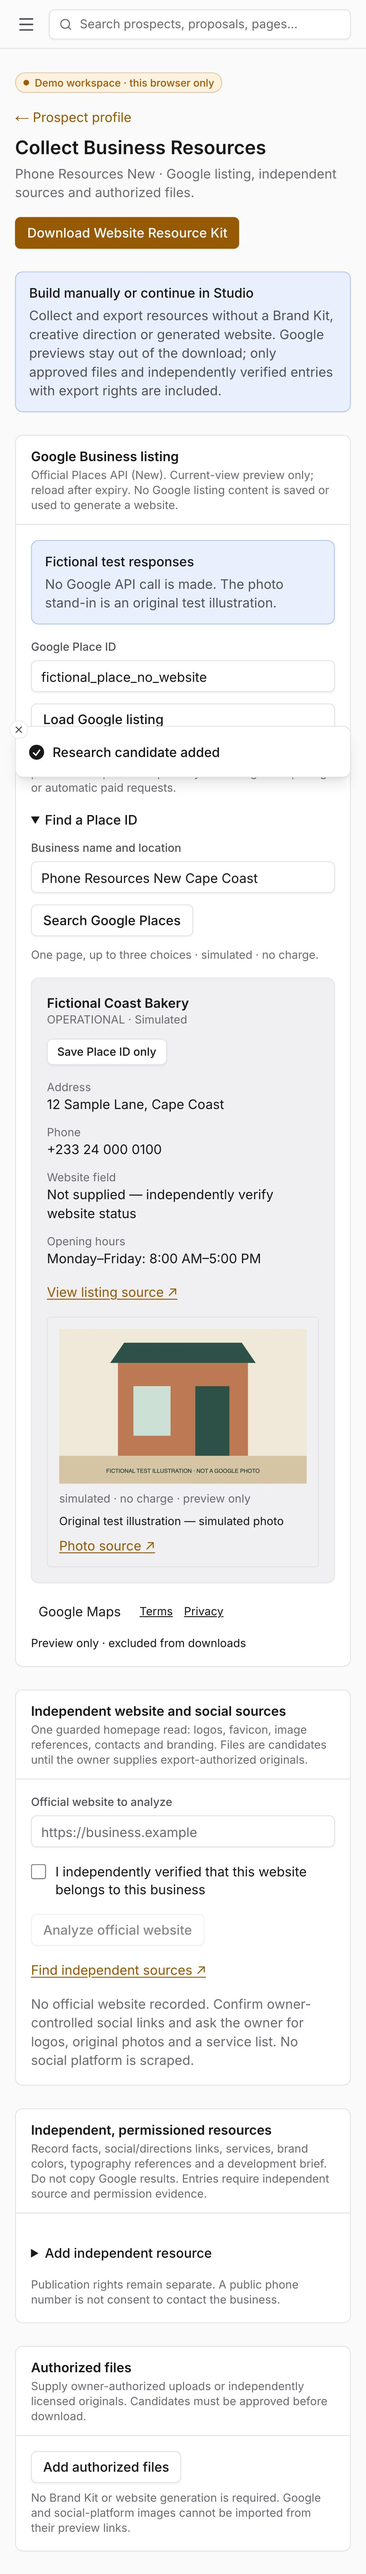
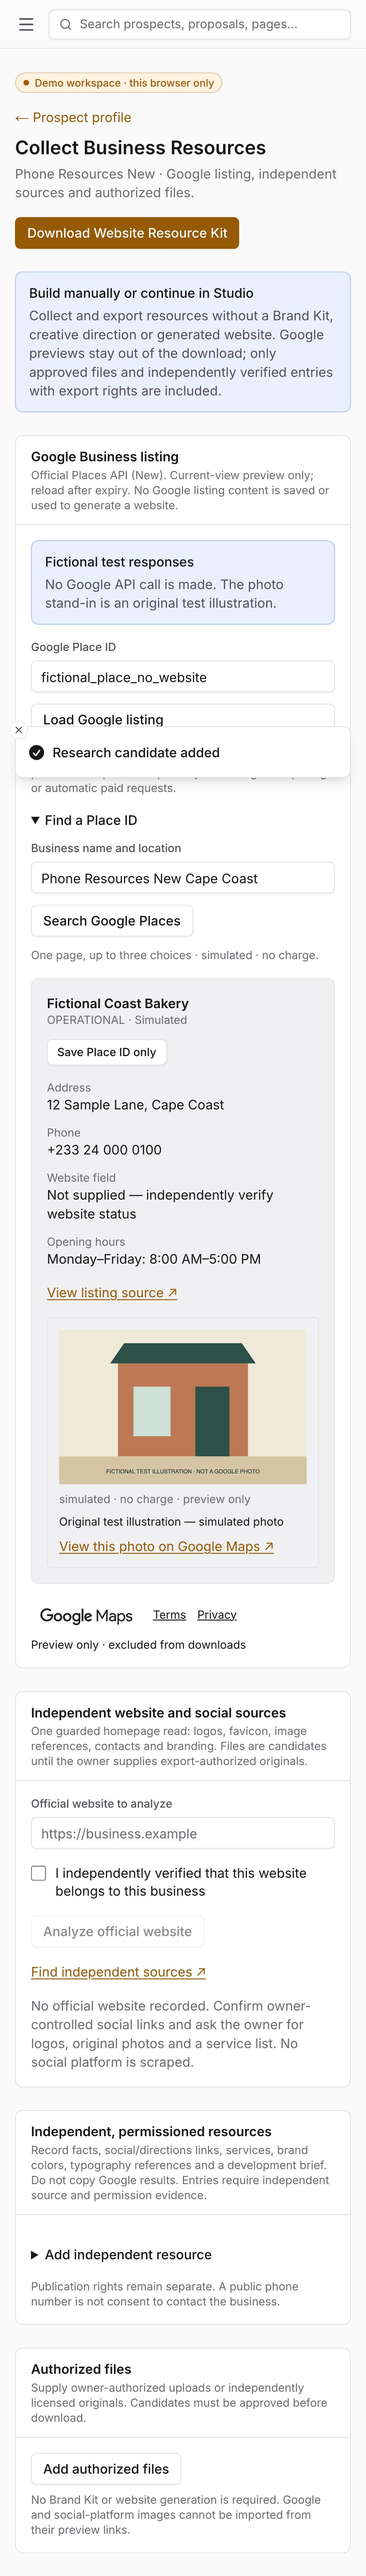
Close the collector's attribution and denylist gaps
- Refuse business.site, the retired Google Business Profile website host, in both
  the application guard and the migration 016 check constraint. Regression tests
  cover the rejected host and a lookalike domain that must stay allowed.
- Show Google's required branding with Places content: the official, unmodified
  Google Maps logo from Google's attribution asset pack, at 18px with the
  documented clear space and an accessible "Google Maps" label. Each photo now
  carries its author's avatar, name and profile link plus a direct "View this
  photo on Google Maps" link from the photo's googleMapsUri.
- Extend supabase/checks/preflight.sql with markers for 001-016 and a report on
  whether the Supabase CLI history table exists, and after-migrations.sql with
  rows 24-33 for the optional 011-016 migrations. Both stay read only; nothing
  is applied.
- Re-record migration 016's readiness findings: the denylist gap is closed, and
  the production state is a written record (001-008 applied through the SQL
  editor) rather than CLI history, leaving 009-016 unrecorded until preflight
  output says otherwise.
- Keep the single live Google run unexecuted: its expected output now also checks
  the per-photo Google Maps link and author links, and the procedure checks the
  logo on screen. No paid request, production write, push or deployment.

diff --git a/src/components/resources/resource-collector.tsx b/src/components/resources/resource-collector.tsx
@@ -58,8 +58,15 @@ function Workspace({ business }: { business: Business }) {
   </div>;
 }
 
+/**
+ * Google's required attribution when Places content is displayed without a Google map. The asset is
+ * Google's official, unmodified Google Maps logo from Google_Maps_Attribution_Assets.zip
+ * (developers.google.com/maps/documentation/places/web-service/policies): the non-outlined variant
+ * for a plain background, 18px high (16-19dp allowed), clear space 10dp at the sides and top and
+ * 5dp below, with an accessible label reading "Google Maps".
+ */
 function GoogleAttribution() {
-  return <div className="mt-4 flex flex-wrap items-center gap-3 text-xs"><span translate="no" className="whitespace-nowrap rounded bg-white px-2 py-1 text-sm font-normal text-[#1f1f1f]">Google Maps</span><Link href="/terms" className="underline">Terms</Link><Link href="/privacy" className="underline">Privacy</Link><span>Preview only · excluded from downloads</span></div>;
+  return <div className="mt-4 flex flex-wrap items-center gap-x-3 gap-y-2 text-xs"><span className="inline-flex items-center rounded bg-white pb-[5px] pl-[10px] pr-[10px] pt-[10px]"><img src="/brand/google-maps-attribution.svg" alt="Google Maps" width={98} height={18} className="h-[18px] w-auto" /></span><Link href="/terms" className="underline">Terms</Link><Link href="/privacy" className="underline">Privacy</Link><span>Preview only · excluded from downloads</span></div>;
 }
 function GoogleViewer({ business, entries, website, editable }: { business: Business; entries: ResourceEntry[]; website: WebsiteResources | null; editable: boolean }) {
   const generation = useRef(0);
@@ -102,7 +109,7 @@ function GoogleViewer({ business, entries, website, editable }: { business: Busi
       <div className="flex flex-wrap items-start justify-between gap-3"><div><h3 className="font-semibold">{listing.name}</h3><p className="text-xs text-subtle">{listing.status} {listing.simulated ? '· Simulated' : ''}</p></div><Button size="sm" disabled={!editable || saveId.pending || placeId !== listing.id} onClick={() => void saveId.run()}>Save Place ID only</Button></div>
       <dl className="grid gap-3 text-sm sm:grid-cols-2"><div><dt className="text-xs text-subtle">Address</dt><dd>{listing.address ?? 'Not supplied'}</dd></div><div><dt className="text-xs text-subtle">Phone</dt><dd>{listing.phone ?? 'Not supplied'}</dd></div><div><dt className="text-xs text-subtle">Website field</dt><dd>{listing.website ? <SourceLink url={listing.website}>{listing.website}</SourceLink> : 'Not supplied — independently verify website status'}</dd></div><div><dt className="text-xs text-subtle">Opening hours</dt><dd>{listing.hours.length ? listing.hours.map((v) => <p key={v}>{v}</p>) : 'Not supplied'}</dd></div></dl>
       <div className="flex flex-wrap gap-4 text-sm"><SourceLink url={listing.mapsUri}>View listing source</SourceLink>{listing.directionsUri && <SourceLink url={listing.directionsUri}>Directions at Google Maps</SourceLink>}</div>
-      <div className="grid gap-4 sm:grid-cols-2 lg:grid-cols-3">{listing.photos.map((p, i) => <div key={p.name} className="min-w-0 space-y-2 rounded border border-border p-3">{photos[p.name] ? <img src={photos[p.name]} alt={`Business photo preview ${i + 1}`} width={800} height={500} className="aspect-[8/5] w-full object-contain" referrerPolicy="no-referrer" onError={() => setError('Photo expired or unavailable. Reload the listing for a fresh reference.')} /> : <Button disabled={Boolean(pending)} onClick={() => void run('photo', p.name)}>Preview photo {i + 1}</Button>}<p className="text-xs text-subtle">{cost(status?.photoMaxUsd)} · preview only</p>{p.authors.map((a, j) => <p key={j} className="text-xs"><SourceLink url={a.uri}>{a.name}</SourceLink></p>)}<SourceLink url={listing.mapsUri}>Photo source</SourceLink></div>)}</div>
+      <div className="grid gap-4 sm:grid-cols-2 lg:grid-cols-3">{listing.photos.map((p, i) => <div key={p.name} className="min-w-0 space-y-2 rounded border border-border p-3">{photos[p.name] ? <img src={photos[p.name]} alt={`Business photo preview ${i + 1}`} width={800} height={500} className="aspect-[8/5] w-full object-contain" referrerPolicy="no-referrer" onError={() => setError('Photo expired or unavailable. Reload the listing for a fresh reference.')} /> : <Button disabled={Boolean(pending)} onClick={() => void run('photo', p.name)}>Preview photo {i + 1}</Button>}<p className="text-xs text-subtle">{cost(status?.photoMaxUsd)} · preview only</p>{p.authors.map((a, j) => <p key={j} className="flex items-center gap-2 text-xs">{a.photoUri && <img src={a.photoUri} alt="" width={24} height={24} className="size-6 shrink-0 rounded-full object-cover" referrerPolicy="no-referrer" />}<SourceLink url={a.uri}>{a.name}</SourceLink></p>)}<SourceLink url={p.googleMapsUri ?? listing.mapsUri}>View this photo on Google Maps</SourceLink></div>)}</div>
       {!listing.photos.length && <p className="text-sm text-subtle">No supported photos returned.</p>}
       {listing.attributions.map((v, i) => <p key={i} className="text-xs"><SourceLink url={v.uri}>{v.provider}</SourceLink></p>)}
       {resourceConflicts(listing, entries, website).map((v) => <Notice key={v} title="Conflicting details" tone="warning">{v}</Notice>)}

diff --git a/tests/unit/business-resources.test.ts b/tests/unit/business-resources.test.ts
@@ -14,9 +14,14 @@ import { extractPageFacts } from '@/lib/domain/page-signals';
 const entry = { businessId: '00000000-0000-4000-8000-000000000001', category: 'service' as const, label: 'Services', value: 'Original owner-authorized service description', sourceKind: 'business_owner' as const, sourceUrl: 'https://sample.example.org/permission', evidence: 'Owner email dated 25 October permits independent verification, storage and export.', independentlyVerified: true as const, exportPermission: 'granted' as const };
 afterEach(() => { vi.unstubAllGlobals(); vi.unstubAllEnvs(); });
 describe('Independent resources and permitted downloads', () => {
-  it.each(['https://maps.google.com/place/test', 'https://lh3.googleusercontent.com/image', 'https://maps.app.goo.gl/test', 'https://instagram.com/business', 'javascript:alert(1)', 'https://user:password@official.example.org'])('refuses restricted or unsafe independent source %s', (url) => {
+  it.each(['https://maps.google.com/place/test', 'https://lh3.googleusercontent.com/image', 'https://maps.app.goo.gl/test', 'https://fictionalbakery.business.site/', 'https://instagram.com/business', 'javascript:alert(1)', 'https://user:password@official.example.org'])('refuses restricted or unsafe independent source %s', (url) => {
     expect(restrictedResourceUrl(url)).toBe(true);
     expect(resourceEntrySchema.safeParse({ ...entry, sourceUrl: url }).success).toBe(false);
+  });
+  it('does not over-block hosts that merely contain the retired Google Business Profile host', () => {
+    expect(restrictedResourceUrl('https://notmybusiness.site/permission')).toBe(false);
+    expect(restrictedResourceUrl('https://business.site.example.org/permission')).toBe(false);
+    expect(restrictedResourceUrl('https://samplebakery.example.org/permission')).toBe(false);
   });
   it('requires independent verification, permission evidence and a non-Google source type', () => {
     expect(resourceEntrySchema.safeParse({ ...entry, sourceKind: 'google' }).success).toBe(false);
@@ -93,13 +98,16 @@ describe('Official transient Google resource provider', () => {
     vi.stubEnv('GOOGLE_PLACES_API_KEY', 'FAKE_SERVER_KEY');
     const fetch = vi.fn().mockResolvedValue(new Response(JSON.stringify({ id: 'fictional_place_12345', displayName: { text: 'Test Bakery' }, websiteUri: withSite ? 'https://sample.example.org' : undefined,
       regularOpeningHours: { weekdayDescriptions: ['Monday: 8–5'] }, googleMapsUri: 'https://maps.google.com/test',
-      photos: Array.from({ length: 9 }, (_, i) => ({ name: `places/fictional_place_12345/photos/photo${i}`, authorAttributions: [{ displayName: 'Sample photographer', uri: 'https://maps.google.com/contrib/test' }] })), attributions: [{ provider: 'Provider credit', providerUri: 'https://example.org' }] })));
+      photos: Array.from({ length: 9 }, (_, i) => ({ name: `places/fictional_place_12345/photos/photo${i}`, widthPx: 800, heightPx: 600, googleMapsUri: 'https://maps.google.com/photos/test', authorAttributions: [{ displayName: 'Sample photographer', uri: 'https://maps.google.com/contrib/test', photoUri: 'https://lh3.googleusercontent.com/a/sample' }] })), attributions: [{ provider: 'Provider credit', providerUri: 'https://example.org' }] })));
     vi.stubGlobal('fetch', fetch);
     const listing = await googleResourceDetails('fictional_place_12345');
     expect(listing.website).toBe(withSite ? 'https://sample.example.org/' : null);
     expect(simulatedResourceListing(withSite ? 'fictional_place_with_website' : 'fictional_place_no_website').website).toBe(withSite ? 'https://resource-bakery.example.org' : null);
     expect(listing.photos).toHaveLength(6);
     expect(listing.photos[0].authors[0].name).toBe('Sample photographer');
+    // Google requires the author's avatar, name and profile link plus a direct photo link on Google Maps.
+    expect(listing.photos[0].authors[0]).toEqual({ name: 'Sample photographer', uri: 'https://maps.google.com/contrib/test', photoUri: 'https://lh3.googleusercontent.com/a/sample' });
+    expect(listing.photos[0].googleMapsUri).toBe('https://maps.google.com/photos/test');
     expect(listing.attributions[0].provider).toBe('Provider credit');
     const [url, init] = fetch.mock.calls[0];
     expect(url).not.toContain('FAKE_SERVER_KEY');

diff --git a/src/lib/domain/business-resources.ts b/src/lib/domain/business-resources.ts
@@ -6,13 +6,17 @@ import { phoneKey } from './web-research';
 export const RESOURCE_CATEGORIES = ['identity', 'contact', 'location', 'social', 'product', 'service', 'color', 'typography', 'brief'] as const;
 export type ResourceCategory = typeof RESOURCE_CATEGORIES[number];
 
-/** Google and social-platform content cannot become independent source material. */
+/**
+ * Google and social-platform content cannot become independent source material. `business.site` is
+ * the retired Google Business Profile website host: a page there can look like an independent site
+ * while remaining Google-supplied content, so it is refused with the other Google hosts.
+ */
 export function restrictedResourceUrl(raw: string): boolean {
   try {
     const u = new URL(raw);
     const h = u.hostname.toLowerCase();
     return !['https:', 'http:'].includes(u.protocol) || Boolean(u.username || u.password) ||
-      /(^|\.)(google\.[a-z.]+|googleapis\.com|googleusercontent\.com|gstatic\.com|goo\.gl|maps\.app\.goo\.gl|ggpht\.com|facebook\.com|fbcdn\.net|instagram\.com|cdninstagram\.com|tiktok\.com|linkedin\.com|x\.com|twitter\.com)$/.test(h);
+      /(^|\.)(google\.[a-z.]+|googleapis\.com|googleusercontent\.com|gstatic\.com|goo\.gl|maps\.app\.goo\.gl|ggpht\.com|business\.site|facebook\.com|fbcdn\.net|instagram\.com|cdninstagram\.com|tiktok\.com|linkedin\.com|x\.com|twitter\.com)$/.test(h);
   } catch { return true; }
 }
 
@@ -36,7 +40,8 @@ export interface GoogleResourceListing {
   id: string; name: string; address: string | null; phone: string | null; website: string | null;
   mapsUri: string | null; directionsUri: string | null; hours: string[]; status: string | null;
   attributions: { provider: string; uri: string | null }[];
-  photos: { name: string; width: number; height: number; authors: { name: string; uri: string | null }[] }[];
+  /** `googleMapsUri` per photo is Google's required direct link to the source photo. */
+  photos: { name: string; width: number; height: number; googleMapsUri: string | null; authors: { name: string; uri: string | null; photoUri: string | null }[] }[];
   simulated: boolean;
 }
 export interface WebsiteResources {

diff --git a/src/lib/server/providers/google-places.ts b/src/lib/server/providers/google-places.ts
@@ -38,15 +38,17 @@ export async function googleResourceDetails(id: string): Promise<GoogleResourceL
   const p = await call(`https://places.googleapis.com/v1/places/${encodeURIComponent(id)}`, { headers: { 'X-Goog-Api-Key': serverEnv.placesKey(), 'X-Goog-FieldMask': RESOURCE_DETAIL_FIELDS } }, AbortSignal.timeout(10_000)) as PlaceJson & {
     regularOpeningHours?: { weekdayDescriptions?: string[] }; googleMapsLinks?: { directionsUri?: string };
     attributions?: { provider?: string; providerUri?: string }[];
-    photos?: { name?: string; widthPx?: number; heightPx?: number; authorAttributions?: { displayName?: string; uri?: string }[] }[];
+    photos?: { name?: string; widthPx?: number; heightPx?: number; googleMapsUri?: string; authorAttributions?: { displayName?: string; uri?: string; photoUri?: string }[] }[];
   };
   return { id: p.id ?? id, name: p.displayName?.text ?? 'Unnamed place', address: p.formattedAddress ?? null,
     phone: p.nationalPhoneNumber ?? null, website: httpLink(p.websiteUri), mapsUri: httpLink(p.googleMapsUri), directionsUri: httpLink(p.googleMapsLinks?.directionsUri),
     status: p.businessStatus ?? null, hours: p.regularOpeningHours?.weekdayDescriptions ?? [],
     attributions: (p.attributions ?? []).map((a) => ({ provider: a.provider ?? '', uri: httpLink(a.providerUri) })),
+    // Google requires the photo's author credit (avatar, name, profile link) and a direct link to the
+    // source photo on Google Maps; `name` is a display-only reference and is never stored.
     photos: (p.photos ?? []).slice(0, 6).filter((a) => a.name?.startsWith(`places/${id}/photos/`)).map((a) => ({
-      name: a.name!, width: a.widthPx ?? 0, height: a.heightPx ?? 0,
-      authors: (a.authorAttributions ?? []).map((v) => ({ name: v.displayName ?? 'Photo contributor', uri: httpLink(v.uri) })),
+      name: a.name!, width: a.widthPx ?? 0, height: a.heightPx ?? 0, googleMapsUri: httpLink(a.googleMapsUri),
+      authors: (a.authorAttributions ?? []).map((v) => ({ name: v.displayName ?? 'Photo contributor', uri: httpLink(v.uri), photoUri: httpLink(v.photoUri) })),
     })), simulated: false };
 }
 

diff --git a/tests/e2e/resource-collector.spec.ts b/tests/e2e/resource-collector.spec.ts
@@ -24,6 +24,11 @@ for (const withSite of [false, true]) test(`Google-first collection and authoriz
   await page.getByRole('button', { name: 'Load Google listing' }).click();
   expect((await response).headers()['cache-control']).toBe('no-store');
   const listing = page.getByTestId('google-listing');
+  // Google's required branding when Places content is shown without a map: the official logo, at
+  // real intrinsic size (a broken asset would render 0px), next to the content.
+  const mapsLogo = page.getByRole('img', { name: 'Google Maps' });
+  await expect(mapsLogo).toBeVisible();
+  await expect.poll(() => mapsLogo.evaluate((el) => (el as HTMLImageElement).naturalWidth)).toBeGreaterThan(0);
   await expect(listing.getByRole('heading', { name: 'Fictional Coast Bakery' })).toBeVisible();
   await expect(listing).toContainText('12 Sample Lane, Cape Coast');
   if (withSite) await expect(listing.getByRole('link', { name: 'https://resource-bakery.example.org' })).toBeVisible();
@@ -40,6 +45,8 @@ for (const withSite of [false, true]) test(`Google-first collection and authoriz
   await expect(img).toBeVisible();
   await expect.poll(() => img.evaluate((el) => (el as HTMLImageElement).naturalWidth)).toBe(1);
   await expect(listing).toContainText('Original test illustration — simulated photo');
+  // Each photo carries its author credit and the required direct link to the source photo.
+  await expect(listing.getByRole('link', { name: 'View this photo on Google Maps' })).toBeVisible();
   const local = await page.evaluate(() => JSON.stringify(localStorage));
   expect(local).toContain(withSite ? 'fictional_place_with_website' : 'fictional_place_no_website');
   expect(local).not.toContain('12 Sample Lane'); expect(local).not.toContain('fictional_sample'); expect(local).not.toContain('lh3.googleusercontent');

diff --git a/tests/live/resource-collector.live.test.ts b/tests/live/resource-collector.live.test.ts
@@ -50,10 +50,14 @@ describe.skipIf(!LIVE_ENABLED)('live Resource Collector (paid, opt-in)', () => {
       expect(photo.width).toBeGreaterThan(0);
       expect(photo.authors.length).toBeGreaterThan(0);
       expect(photo.authors.every((a) => a.name.trim().length > 0)).toBe(true);
+      // Google's policy requires direct access to the source photo on Google Maps from every photo.
+      expect(photo.googleMapsUri).toMatch(/^https:\/\/([^/]+\.)?google\.[a-z.]+\//);
+      expect(photo.authors.some((a) => a.uri || a.photoUri)).toBe(true);
     }
     firstPhoto = listing.photos[0]?.name ?? null;
+    const credits = listing.photos.flatMap((p) => p.authors);
     console.log(
-      `Place Details ${placeId}: photos ${listing.photos.length}, author credits ${listing.photos.reduce((n, p) => n + p.authors.length, 0)}, hours ${listing.hours.length}, provider credits ${listing.attributions.length}, website listed false, phone listed ${Boolean(listing.phone)}`,
+      `Place Details ${placeId}: photos ${listing.photos.length}, author credits ${credits.length}, author avatars ${credits.filter((a) => a.photoUri).length}, author profiles ${credits.filter((a) => a.uri).length}, photo source links ${listing.photos.filter((p) => p.googleMapsUri).length}, hours ${listing.hours.length}, provider credits ${listing.attributions.length}, website listed false, phone listed ${Boolean(listing.phone)}`,
     );
   });
 

diff --git a/tests/db/staging-acceptance.test.ts b/tests/db/staging-acceptance.test.ts
@@ -56,8 +56,10 @@ describe('staging acceptance for migrations 009 and 010', () => {
 
       // 6. Post-migration checks: every row must say ok.
       const after = await db.query<{ check: string; expected: string; actual: string; result: string }>(check('after-migrations.sql'));
-      expect(after.rows.length).toBeGreaterThanOrEqual(23);
-      expect(after.rows.filter((row) => row.result !== 'ok')).toEqual([]);
+      expect(after.rows.length).toBeGreaterThanOrEqual(33);
+      // This staging copy is current except for 009-011: 011 discovery is the one later migration the
+      // runbook still records as unapplied, so it is the only row that must report the gap.
+      expect(after.rows.filter((row) => row.result !== 'ok').map((row) => row.check)).toEqual(['011 discovery tables installed']);
       expect((await rows<{ n: number }>(db, 'select count(*)::int as n from public.ghana_districts'))[0].n).toBe(261);
 
       // 7–8. Create an active campaign and attach two prospects, one known only to district level.

diff --git a/tests/db/business-resources.test.ts b/tests/db/business-resources.test.ts
@@ -25,7 +25,11 @@ it('isolates independent resources by organization and enforces the business bin
 });
 it('refuses Google-origin source types and URLs at the database boundary', async () => {
   await expect(as(db, OWNER, () => insert(org, 'https://maps.google.com/place/example'))).rejects.toThrow(/check constraint/i);
+  // The retired Google Business Profile host is Google content even when it looks like a website.
+  await expect(as(db, OWNER, () => insert(org, 'https://fictionalbakery.business.site/'))).rejects.toThrow(/check constraint/i);
   await expect(as(db, OWNER, () => insert(org, 'https://sample.example.org', 'google'))).rejects.toThrow(/check constraint/i);
+  // Only the host itself is refused, not a longer domain that happens to contain its name.
+  await as(db, OWNER, () => insert(org, 'https://notmybusiness.site/permission'));
 });
 it('allows a member to read but a viewer cannot create or revoke resource entries', async () => {
   const [entry] = await as(db, OWNER, () => insert());

diff --git a/src/lib/server/resource-collector.ts b/src/lib/server/resource-collector.ts
@@ -19,7 +19,7 @@ export function simulatedResourceListing(id: string): GoogleResourceListing {
   return { id, name: 'Fictional Coast Bakery', address: '12 Sample Lane, Cape Coast', phone: '+233 24 000 0100',
     website: id.endsWith('with_website') ? 'https://resource-bakery.example.org' : null,
     mapsUri: 'https://www.google.com/maps', directionsUri: null, hours: ['Monday–Friday: 8:00 AM–5:00 PM'], status: 'OPERATIONAL',
-    photos: [{ name: `places/${id}/photos/fictional_sample`, width: 800, height: 500, authors: [{ name: 'Original test illustration — simulated photo', uri: null }] }],
+    photos: [{ name: `places/${id}/photos/fictional_sample`, width: 800, height: 500, googleMapsUri: 'https://www.google.com/maps', authors: [{ name: 'Original test illustration — simulated photo', uri: null, photoUri: null }] }],
     attributions: [], simulated: true };
 }
 

diff --git a/tests/db/migrations.test.ts b/tests/db/migrations.test.ts
@@ -228,7 +228,7 @@ describe('after-migrations check', () => {
     try {
       expect(await db.exec(check)).toHaveLength(1);
       const ok = await results(db);
-      expect(ok).toHaveLength(23);
+      expect(ok).toHaveLength(33);
       expect(ok.filter((r) => r.result !== 'ok')).toEqual([]);
     } finally {
       await db.exec('rollback');

diff --git a/docs/LIVE_GOOGLE_RESOURCE_TEST.md b/docs/LIVE_GOOGLE_RESOURCE_TEST.md
@@ -68,10 +68,13 @@ Add `LIVE_PLACES_PHOTO=1` to spend one photo request as well; the check reuses t
 details call, so it never pays for a second lookup.
 
 Expected: both checks pass and print counts only, for example
-`Place Details ChIJ...: photos 3, author credits 3, hours 7, provider credits 0, website listed false,
-phone listed true`. A failing `website listed false` assertion means Google now lists a website for
-that business: pick another prospect, do not loosen the check. The photo check prints only the host
-(`*.googleusercontent.com`, `*.ggpht.com` or `*.gstatic.com`) and confirms no bytes were fetched.
+`Place Details ChIJ...: photos 3, author credits 3, author avatars 3, author profiles 3, photo source
+links 3, hours 7, provider credits 0, website listed false, phone listed true`. A failing
+`website listed false` assertion means Google now lists a website for that business: pick another
+prospect, do not loosen the check. Every returned photo must carry a Google Maps link to the source
+photo (`googleMapsUri`) and at least one author link or avatar; a failure there is an attribution
+defect in the provider mapping, not a reason to relax the assertion. The photo check prints only the
+host (`*.googleusercontent.com`, `*.ggpht.com` or `*.gstatic.com`) and confirms no bytes were fetched.
 
 ## Part B — the same request through the in-app button
 
@@ -90,13 +93,15 @@ Never point this at the production project. Steps once cloud mode is running:
 2. Press **Collect Business Resources** and confirm the page loads without a website-generation step.
 3. Paste the Place ID and press **Load Google listing** — one billed details request. Check the address,
    phone, hours, the "Website field: Not supplied — independently verify website status" line, the
-   source link, the provider credits, the "Google Maps · Terms · Privacy · Preview only" line, and that
-   the photo tiles show "Preview photo N" rather than loading images.
+   source link, the provider credits, and the footer: the official unmodified Google Maps logo (18px,
+   accessible name "Google Maps", clear space around it) followed by Terms · Privacy · Preview only.
+   The photo tiles must show "Preview photo N" rather than loading images.
 4. Press **Save Place ID only**. Reload the page: the Place ID persists, and no other Google field was
    written anywhere.
-5. Preview at most one photo — one billed photo request. Confirm the image loads from Google's host,
-   the author credit and the "Photo source" link are visible, and that the image is not offered in the
-   vault or the ZIP.
+5. Preview at most one photo — one billed photo request. Confirm the image loads from Google's host, the
+   author avatar, name and profile link are visible (or, if Google returns no avatar, the name and
+   profile link), the "View this photo on Google Maps" link opens Google's own photo page, and the image
+   is not offered in the vault or the ZIP.
 6. Leave the listing open for five minutes and confirm the viewer clears itself.
 7. Optional, free: run the guarded homepage read for a website the business owns, add one independent
    entry with source, evidence, `independently_verified` and export permission, revoke it, then export
@@ -123,19 +128,31 @@ backup if one exists), reset the Cloud quota and delete the test key if it is si
 check is opt-in only: without `LIVE_INTEGRATION=1` it skips before any import of a provider module, so
 the normal suites stay free.
 
-## Attribution and retention obligations (confirmed against Google's published policy, 23 Oct 2026)
+## Attribution and retention obligations (Google's policy page revision of 23 Oct 2026, re-checked 25 Oct 2026)
+
+Google's current wording asks for the **Google Maps** logo (or, where space is limited, the text
+"Google Maps") whenever Places content is shown without a Google map, and for each photo the author's
+avatar, name and profile link plus a direct link to the source photo on Google Maps.
 
 - Publicly reachable Terms and Privacy pages that name Google's terms: `/terms` and `/privacy` already
   do, and the viewer links to both.
-- Anything shown without an embedded map must carry Google attribution and any third-party provider
-  credits near the content; photos additionally need their author credits. The viewer shows the
-  provider credits, per-photo author credits, a source link and a "Photo source" link.
+- The viewer renders the official, unmodified Google Maps logo from Google's own
+  `Google_Maps_Attribution_Assets.zip` (the dark-grey, non-outlined variant for a plain background),
+  served from `public/brand/google-maps-attribution.svg` at 18px high with 10dp clear space at the
+  sides and top and 5dp below, and an accessible label reading "Google Maps". The logo is branding,
+  not Places content: it is never modified, never imported into a vault and never added to a kit.
+  Provenance and checksum: `public/brand/README.md`.
+- Third-party provider credits stay next to the content, and each photo shows its author avatar, name
+  and profile link plus "View this photo on Google Maps" (`photo.googleMapsUri`), which is Google's
+  required route to the source photo and its reporting controls.
+- Text is no longer used as the attribution: space is available for the logo, and Google prefers it.
+  If a future layout cannot fit the logo, use the text "Google Maps" with `translate="no"`,
+  12–16sp, weight 400, colour white/#1F1F1F/#5E5E5E and 4.5:1 contrast instead of a cropped logo.
 - Content other than a Place ID may not be cached or stored. The app stores nothing else: `no-store`
   fetches, view-only state, a five-minute clear, no local or session storage, and only the Place ID is
   persisted. Photo references expire, so each preview re-requests one and the UI asks for a reload
   when it fails.
-- Known gap before public use: the viewer renders a "Google Maps" text chip, not the official Google
-  logo. Google's policy expects the logo when Places data is displayed without a map, so the logo
-  asset and its placement need the owner's approval before the feature is used outside internal
-  research.
+- Remaining gap: no live run has yet shown the real logo, avatars and photo links on a real listing,
+  because no paid request has been authorized. Part A's assertions and Part B's visual checks are the
+  evidence that closes it.
 

diff --git a/docs/MIGRATION_REVIEW_016.md b/docs/MIGRATION_REVIEW_016.md
@@ -36,17 +36,21 @@ table and backfills nothing, so no existing row is rewritten.
 - `business_resource_guard` before update, `business_resource_audit` after insert/update/delete
 
 The denylist rejects Google and social hosts at the database boundary: google.*, googleapis.com,
-googleusercontent.com, gstatic.com, goo.gl and its subdomains, ggpht.com, facebook.com, fbcdn.net,
-instagram.com, cdninstagram.com, tiktok.com, linkedin.com, x.com and twitter.com. It matches Google
-content arriving as a "source", which is the leak this table exists to prevent. `business.site` is not
-listed; the retired Google Business Profile host would still be accepted, so a hardening pass should
-add it to both this check and `restrictedResourceUrl` in `src/lib/domain/business-resources.ts`.
+googleusercontent.com, gstatic.com, goo.gl and its subdomains, ggpht.com, business.site, facebook.com,
+fbcdn.net, instagram.com, cdninstagram.com, tiktok.com, linkedin.com, x.com and twitter.com. It matches
+Google content arriving as a "source", which is the leak this table exists to prevent. `business.site`
+(the retired Google Business Profile website host) was added on 25 October 2026 to both this check and
+`restrictedResourceUrl` in `src/lib/domain/business-resources.ts`, with regression tests in
+`tests/unit/business-resources.test.ts` and `tests/db/business-resources.test.ts` that also prove a
+lookalike domain such as `notmybusiness.site` is not over-blocked.
 
 ## 2. Dependencies
 
 - Migration 002: `organizations`, `businesses` with `unique (id, organization_id)`, `audit_events`,
-  `audit_row_change()`, `is_org_member()` and `has_org_role()`. Production has 001-008 since
-  2026-10-23, so this is present.
+  `audit_row_change()`, `is_org_member()` and `has_org_role()`. It is recorded as applied to production
+  with 001-008 on 2026-10-23 (`docs/MIGRATION_REVIEW.md`, `docs/IMPLEMENTATION_ROADMAP.md`,
+  `docs/PRODUCTION_ACCEPTANCE_AUDIT.md`), so it is expected to be present. That is a record, not a
+  re-verification: see the uncertainty note below.
 - The Supabase `auth` schema: the `auth.uid()` default and the `auth.users` foreign key.
 - PostgreSQL 13 or later for `gen_random_uuid()` in core; Supabase runs 15 and later.
 
@@ -62,6 +66,24 @@ Keeping the retained Place ID needs only 002's `businesses.places_place_id`.
 The runbook records 011 as not applied and does not record 012-015, so 016 is the last link of a chain
 whose earlier Studio links have not been reviewed for production here. Applying 016 alone is safe for
 the database but would ship a collector whose vault cannot store files.
+
+### What the production migration state actually rests on
+
+- 003-008 were applied by the owner through the Supabase SQL editor on 2026-10-23. The only evidence in
+  the repository is prose (`docs/MIGRATION_REVIEW.md`, the roadmap update, `docs/PRODUCTION_ACCEPTANCE_AUDIT.md`
+  and `docs/SECURITY_AUDIT.md` R-5) plus the saved `after-migrations.sql` result (18 of 18 checks ok).
+- There is no Supabase CLI history in the repository: `supabase/config.toml` does not exist, so nothing
+  here proves whether `supabase_migrations.schema_migrations` exists in the production project or what it
+  holds. An SQL-editor apply would not have written to it at all.
+- 009 and 010 were reviewed and accepted only on PGlite and a local staging copy
+  (`docs/MIGRATION_REVIEW_009_010.md`, `docs/STAGING_ACCEPTANCE_009_010.md`); neither document claims a
+  production apply, and this review therefore treats their production state as unknown.
+- 011 is explicitly unapplied (`docs/RUNBOOK.md` §"Autonomous discovery (migration 011) — not applied").
+  012-016 appear in no production record at all.
+- So the honest production picture is: 001-008 recorded, 009-016 unrecorded; 011 recorded as not applied.
+  `supabase/checks/preflight.sql` is now the way to replace that with fact: it reports a marker for every
+  migration 001-016 and whether the CLI history table exists, without writing anything. Capture its
+  output from production before planning any apply. Nothing in this review authorizes that apply.
 
 ## 3. RLS and organization isolation
 
@@ -147,16 +169,19 @@ later migrations.
 
 1. Back up production and record the current migration markers from Section 2.
 2. Decide 009-015 first: the collector's vault and ZIP are only usable after 012-015.
-3. Run `supabase/checks/preflight.sql` (read only) and keep the output. Its `installed` rows stop at
-   010, so extend that list with 011-016 before relying on it for this apply.
-4. Apply in staging, run `supabase/checks/after-migrations.sql`, and confirm the four resource tests in
-   `tests/db/business-resources.test.ts` still describe the deployed schema.
+3. Run `supabase/checks/preflight.sql` (read only) and keep the output. It now reports markers for
+   001-016 and whether the Supabase CLI history table exists; that output, not this file, is the
+   authoritative production state. Confirm 002 exists and 016 is absent before applying, and record
+   which of 009-015 are present.
+4. Apply in staging, run `supabase/checks/after-migrations.sql` (rows 24-33 inspect 011-016), and confirm
+   the four resource tests in `tests/db/business-resources.test.ts` still describe the deployed schema.
 5. Apply during a quiet period, deploy the application, then open one prospect's resources page and
    confirm the "Migration 016 is needed" notice is gone and an entry can be saved and revoked.
 
 ## 8. Verdict
 
 Low risk as a database change: additive, no backfill, no rewrite, org-scoped RLS, immutable with an
-audited one-way revocation and a clean rollback. Two items belong beside it rather than inside it: the
-`business.site` denylist gap, and the fact that 016 alone does not make the vault or ZIP usable.
-Nothing in this review authorizes applying it.
+audited one-way revocation and a clean rollback. The `business.site` denylist gap recorded in the first
+revision is now closed in both the check constraint and the application guard, with tests. One item
+still belongs beside 016 rather than inside it: 016 alone does not make the vault or ZIP usable. Nothing
+in this review authorizes applying it.
